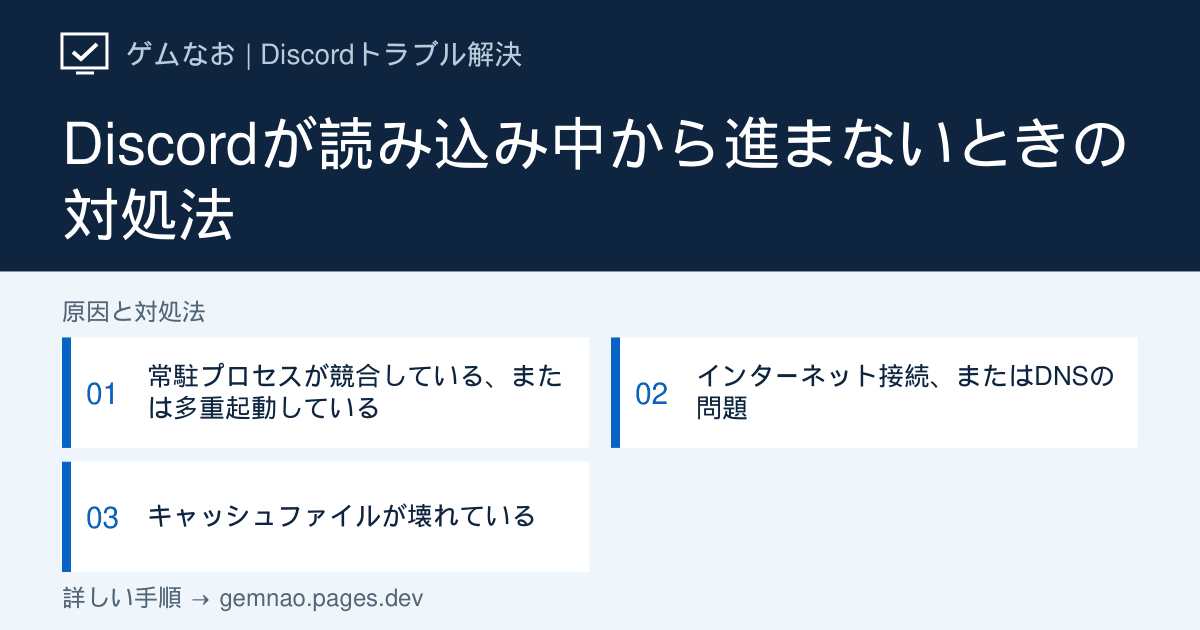
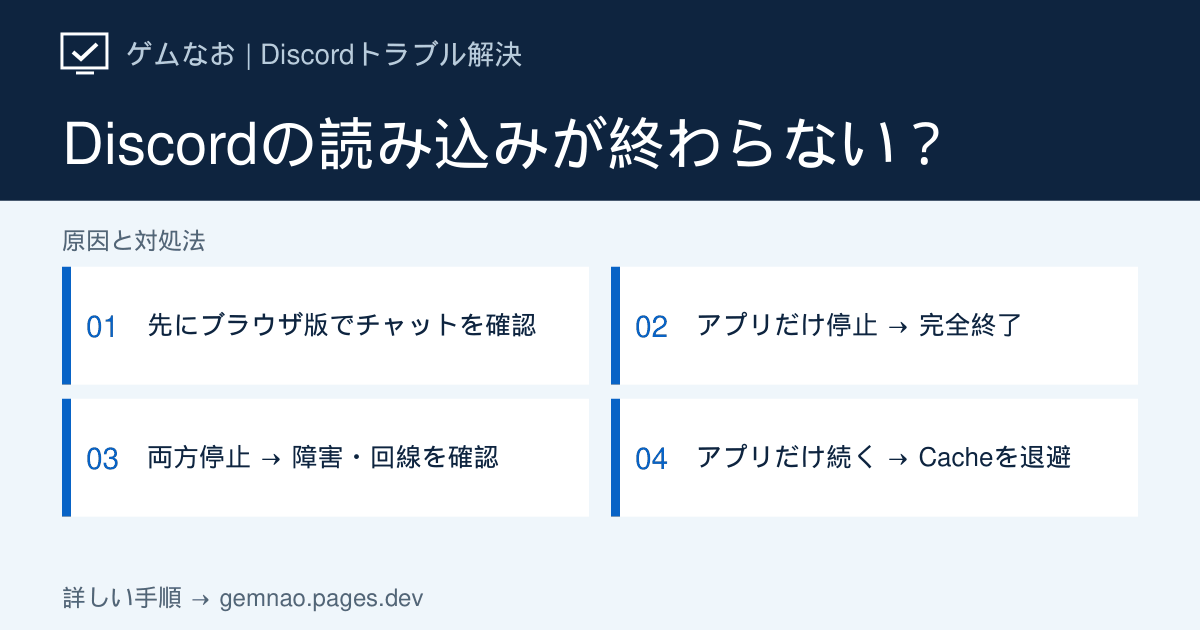
Improve Discord loading diagnosis before clearing cache

diff --git a/lib/discord-articles.ts b/lib/discord-articles.ts
@@ -760,73 +760,161 @@ const existingDiscordArticles: DiscordArticle[] = [
   {
     slug: 'loading-stuck',
     category: 'launch',
-    title: 'Discordが読み込み中から進まないときの対処法',
+    title: 'Discordが読み込み中から進まないときの直し方【ロゴ・灰色画面】',
     shortTitle: '読み込み中から進まない',
-    seoTitle: 'Discordが読み込み中から進まないときの対処法',
+    seoTitle: 'Discordが読み込み中から進まない原因と直し方【ロゴ・灰色画面】',
     metaDescription:
-      'Discord起動後にロゴやグレー画面の読み込み表示から進まない時の対処法です。多重起動プロセスの終了、キャッシュ削除、接続確認を順に行います。',
+      'Discordのロゴや灰色画面から進まないときは、同じPCのブラウザ版でチャットが開くか先に比較。結果別に接続・常駐プロセス・キャッシュを確認するWindows向け手順です。',
     symptom:
-      'Discordを起動するとロゴやくるくる回るアイコンの読み込み画面が表示されたまま、ログイン画面やチャット画面に進まない場合の手順です。',
+      'Discordのロゴや回転するアイコンで止まる、または灰色の画面だけが表示される。ログイン後もサーバー・チャットの一覧が出ない場合を含めて切り分けます。',
     target: 'Windows版 Discordデスクトップアプリ',
     conclusion:
-      'タスクマネージャーで常駐しているDiscordのプロセスをすべて終了してから起動し直し、次にインターネット接続、最後にキャッシュを確認します。',
+      '最初に同じPC・同じ回線でDiscordのブラウザ版を開き、同じアカウントのチャット一覧まで表示されるか比較します。ブラウザ版だけ動くならアプリを完全終了して再起動、それでも止まる場合に限ってアプリのキャッシュを退避。両方止まるなら障害情報と接続環境を先に確認します。',
     quickFixes: [
-      'タスクマネージャーでDiscordのプロセスをすべて終了してから起動し直す',
-      '別のサイトやアプリでインターネットに接続できているか確認する',
-      'Discordのキャッシュフォルダーを削除してから起動する',
+      '同じPCのブラウザで discord.com/app にアクセスし、同じアカウントでチャット一覧まで開けるか試す',
+      'ブラウザ版が動く場合：Discordを完全終了してアプリを起動し直す',
+      'ブラウザ版も止まる場合：Discord Statusを確認し、別サイト・別回線でも接続を比較する',
+    ],
+    diagnosisTitle: 'ロゴ・灰色画面で止まるときの結果別チェック表',
+    diagnosisIntro:
+      '画面の色だけでは原因を決められません。まず同じPC・同じ回線のブラウザ版で「ログイン画面が出た」ではなく「チャット一覧が開いた」かを比べてください。',
+    diagnosis: [
+      {
+        symptom: 'ロゴで停止／ブラウザ版は開く',
+        check: 'アプリを完全終了して起動し直すと進む？',
+        causeIndex: 2,
+      },
+      {
+        symptom: '灰色画面で停止／ブラウザ版は開く',
+        check: 'アプリを完全終了しても灰色のまま？',
+        causeIndex: 2,
+      },
+      {
+        symptom: '再起動してもアプリだけ停止',
+        check: 'Cacheフォルダーの退避後に改善する？',
+        causeIndex: 4,
+      },
+      {
+        symptom: 'アプリもブラウザ版も開かない',
+        check: '障害情報・別サイト・別回線を確認',
+        causeIndex: 3,
+      },
+      {
+        symptom: 'アプリは動く／ブラウザ版だけ停止',
+        check: 'プライベートウィンドウか別ブラウザでは開く？',
+        causeIndex: 1,
+      },
+      {
+        symptom: 'Update Failed・破損のエラー表示',
+        check: '文言を控えて専用の手順へ',
+        causeIndex: 5,
+      },
     ],
     causes: [
       {
-        title: '常駐プロセスが競合している、または多重起動している',
+        title: 'まずブラウザ版と同じアカウントで比較する',
         description:
-          '前回の終了処理が完了しないまま次の起動が始まると、読み込みが途中で止まることがあります。',
+          'ブラウザ版でチャットが開けば、その時点で同じ回線からDiscordを利用できます。ただしアプリだけが止まる理由は、この比較だけでは確定しません。',
         actions: [
-          'Ctrl＋Shift＋Escでタスクマネージャーを開く',
-          '「プロセス」タブと「詳細」タブの両方でDiscordに関する項目をすべて終了する',
-          'PCを再起動してから、あらためてDiscordを起動する',
+          '止まっているPCのブラウザで https://discord.com/app を開き、可能ならデスクトップ版と同じアカウントでログインする',
+          'サーバーやチャット一覧が表示され、実際に会話を開けるか確認する。ログイン画面が出ただけでは比較完了としない',
+          'ブラウザ版が動きアプリだけ止まる場合は手順2へ。両方止まる場合は手順3へ進む',
+          'アプリだけ動きブラウザ版が止まる場合は、プライベートウィンドウや別ブラウザで比較する。ブラウザの拡張機能や保存済みデータを確認する',
+        ],
+        note: 'ログインできずブラウザ版の会話画面を確認できない場合は判定保留です。画面の色だけから原因を決めないでください。',
+      },
+      {
+        title: 'ブラウザ版は開く：Discordアプリを完全終了する',
+        description:
+          'ロゴでも灰色画面でも、アプリのプロセスが残っていれば再起動だけで改善する場合があります。画面の色にかかわらず最初に試します。',
+        actions: [
+          '画面右下の通知領域（隠れている場合は「∧」）でDiscordアイコンを右クリックし「Discordを終了」を選ぶ',
+          'Ctrl＋Shift＋Escでタスクマネージャーを開き、「プロセス」で残っているDiscordを選んで「タスクの終了」を押す',
+          'Discordを起動し直し、チャット一覧まで進むか確認する。直ればここで終了する',
+          'まだ止まる場合はPCを再起動してもう一度試し、それでもアプリだけ止まるなら手順4へ進む',
         ],
       },
       {
-        title: 'インターネット接続、またはDNSの問題',
+        title: 'ブラウザ版も止まる：障害情報と接続を確認する',
         description:
-          '読み込み画面はDiscordのサーバーへの接続を待っている状態のため、回線やDNSの問題で止まることがあります。',
+          '両方でチャットが開けない場合、アプリのキャッシュだけを消しても原因を絞れません。公式の障害状況とPCの接続条件を比較します。',
         actions: [
-          'ブラウザで別のサイトが問題なく開けるか確認する',
-          'Wi-Fiとルーターを再起動する',
-          'コマンドプロンプトを管理者として開き、ipconfig /flushdns を実行する',
-          '可能であればスマートフォンのテザリングなど別回線で起動できるか確認する',
+          'discordstatus.com で障害が報告されていれば復旧を待つ。報告がなくても障害がないと断定せず、次を比較する',
+          '同じブラウザで別サイトを開けるか確認する。別サイトも開けなければWi-Fiとルーター、PCの回線接続を確認する',
+          '可能ならスマートフォンのテザリングなど別回線で、同じPCのブラウザ版を試す。別回線だけ動くなら元の回線・ルーター・ネットワーク制限を確認する',
+          '別サイトは動きDiscordだけ止まる場合は、Windowsの「設定 → 時刻と言語 → 日付と時刻」で時刻を自動設定にし、VPN・プロキシ・ファイアウォールによるDiscordへの接続制限を確認する',
         ],
+        note: '会社・学校のネットワークでは管理者の制限がある場合があります。セキュリティ機能を無効化したまま使わず、管理者に確認してください。',
       },
       {
-        title: 'キャッシュファイルが壊れている',
+        title: 'アプリだけ止まる：キャッシュを退避して比較する',
         description:
-          '更新の失敗や強制終了によってキャッシュが壊れ、読み込みが完了しないことがあります。',
+          'ブラウザ版は動くのにアプリの完全終了・PC再起動でも止まる場合に、Discord公式が案内するCacheの対処を試します。先にフォルダー名を変えれば元に戻せます。',
         actions: [
-          'Discordを完全に終了する',
-          'Windows＋Rで「ファイル名を指定して実行」を開き、%appdata%\\discord\\Cache を入力する',
-          'Cacheフォルダーの中身を削除する',
-          'Discordを起動し、読み込みが完了するか確認する',
+          '手順2の方法でDiscordを完全終了し、タスクマネージャーにDiscordが残っていないことを確かめる',
+          'Windows＋Rを押し「%APPDATA%\\discord」と入力して開く',
+          '中の「Cache」フォルダーを「Cache_before_loading_fix」に名前変更する。Cacheが見当たらなければ無理に別のフォルダーを消さない',
+          'Discordを起動してチャット一覧まで表示されるか確認する。直らなければ、再びアプリを終了し、新しくできたCacheを削除して退避したフォルダー名をCacheに戻せる',
+        ],
+        note: 'Cacheの外にある設定やデータをまとめて削除する操作ではありません。変更前にパスと退避名を控えてください。',
+      },
+      {
+        title: '更新・破損エラーが表示された場合は専用の対処へ',
+        description:
+          '「Update Failed」やインストール破損の表示がある場合、単なる読み込み停止とは確認先が異なります。表示された文字列を手掛かりにします。',
+        actions: [
+          '画面に表示されたエラーの文言と発生時刻を控える',
+          '「Update Failed」なら関連する「Discordのアップデートが終わらない」の記事で更新処理を確認する',
+          'インストール破損が明示される場合は、Discord公式の破損インストール向け手順を確認してから再インストールする。設定フォルダー全体の削除はキャッシュ退避とは別の操作なので、案内を読んでから行う',
         ],
       },
     ],
     ifNotFixed:
-      '改善しない場合は「起動しない」の記事の手順（管理者として実行、再インストール）もあわせて確認してください。特定の時間帯だけ発生する場合は、Discord Statusで大規模障害が発表されていないか確認してください。',
+      'ブラウザ版とアプリ版の両方で止まり、別回線でも同じなら、障害情報とログイン時のエラー表示を控えてください。ブラウザ版は動き、完全終了・キャッシュ退避後もアプリだけ止まるなら、Windowsの版、Discordのエラー文言、試した手順と各結果をまとめ、関連する「Discordが起動しない」も確認してください。',
     faqs: [
       {
-        question: 'グレー画面とロゴ画面では原因が違いますか？',
+        question: 'ロゴ画面と灰色画面で直し方は変わりますか？',
         answer:
-          'ロゴ画面のまま止まる場合はアプリ自体の読み込み、グレー画面でログイン欄すら出ない場合は接続待ちであることが多いです。どちらもプロセスの終了と接続確認を先に試してください。',
+          '画面の色だけでは原因を確定できません。どちらも同じPCのブラウザ版でチャットまで開けるかを先に比べ、ブラウザ版だけ動くならアプリの完全終了、両方止まるなら障害・接続確認へ進みます。',
       },
       {
-        question: 'ブラウザ版のDiscordも同じ手順で直りますか？',
+        question: 'ブラウザ版でログイン画面が出れば、アプリ側が原因ですか？',
         answer:
-          'ブラウザ版の場合はキャッシュ削除の代わりに、ブラウザの閲覧データ削除とページの強制再読み込み（Ctrl＋F5）を試してください。拡張機能が影響することもあるため、シークレットウィンドウでの動作確認も有効です。',
+          'いいえ。サーバー・チャット一覧まで開けて初めて接続の比較になります。ログインできない場合はアカウントの問題もあり得るため、表示されたエラーを控え、公式障害情報も確認してください。',
+      },
+      {
+        question: 'キャッシュを消すとサーバーやメッセージも消えますか？',
+        answer:
+          'ここで操作するのはWindowsのDiscordアプリ内のCacheフォルダーです。サーバーやメッセージの削除操作ではありません。退避したフォルダーは動作確認が終わるまで残し、アプリの設定フォルダー全体と取り違えないでください。',
       },
     ],
-    sources: [generalTroubleshooting, discordStatus],
-    related: ['login-error', 'slow-performance', 'not-opening'],
-    checkedAt: '2026-09-16',
+    sources: [
+      generalTroubleshooting,
+      support(
+        '115001130052-Stuck-on-the-Main-Connecting-Screen',
+        '接続画面で止まる場合（英語）',
+      ),
+      {
+        label: 'Discord公式サポート：破損したインストールの対処',
+        url: 'https://support.discord.com/hc/ja/articles/115004307527',
+      },
+      discordStatus,
+    ],
+    related: [
+      'update-failed',
+      'installation-failed',
+      'login-error',
+      'not-opening',
+    ],
+    checkedAt: '2026-09-27',
     status: 'verified',
+    ogTitle: 'Discordの読み込みが終わらない？',
+    ogSteps: [
+      '先にブラウザ版でチャットを確認',
+      'アプリだけ停止 → 完全終了',
+      '両方停止 → 障害・回線を確認',
+      'アプリだけ続く → Cacheを退避',
+    ],
   },
 ];
 

diff --git a/lib/og-image-manifest.ts b/lib/og-image-manifest.ts
@@ -16,7 +16,7 @@ export const ogImageManifest: Record<string, string> = {
   "/discord/game-not-detected": "c3572bd7",
   "/discord/game-volume-lowers": "51f67981",
   "/discord/installation-failed": "f0058f33",
-  "/discord/loading-stuck": "53da6540",
+  "/discord/loading-stuck": "c18e0bfc",
   "/discord/login-error": "9a75aebd",
   "/discord/mic-not-working": "230d5d46",
   "/discord/mic-volume-low": "9eec1c00",
